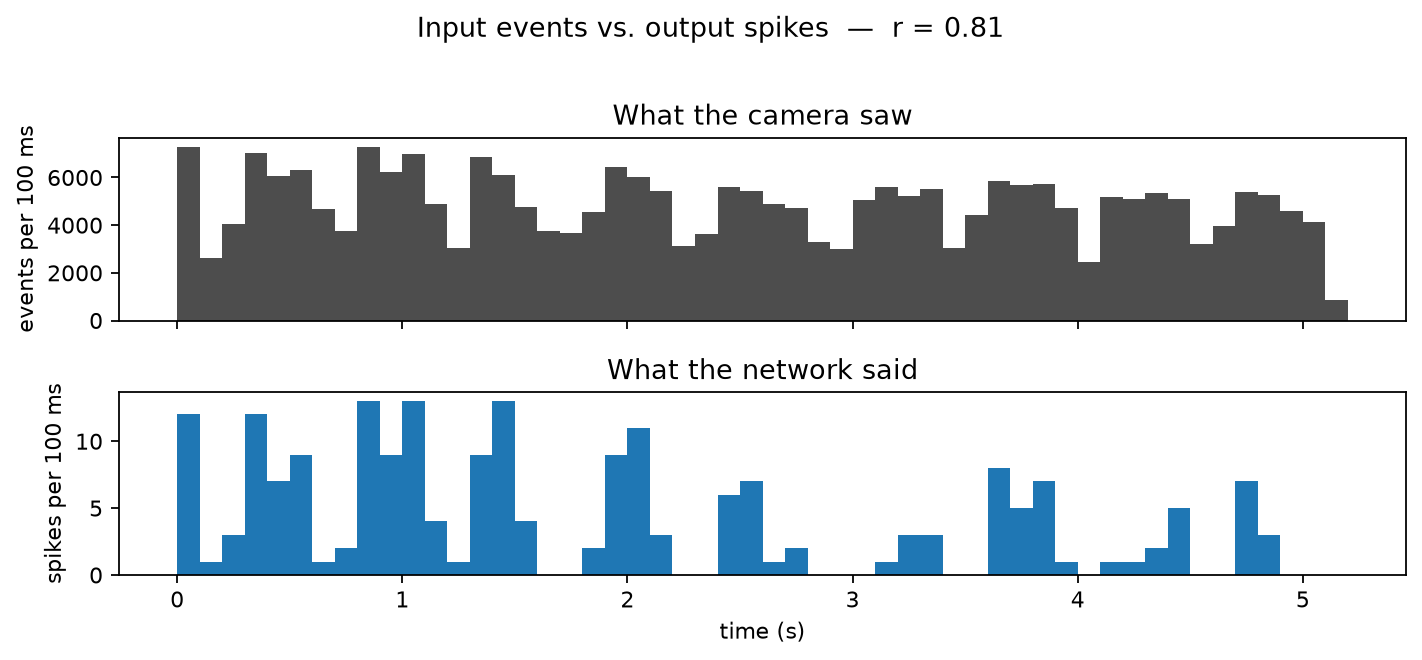
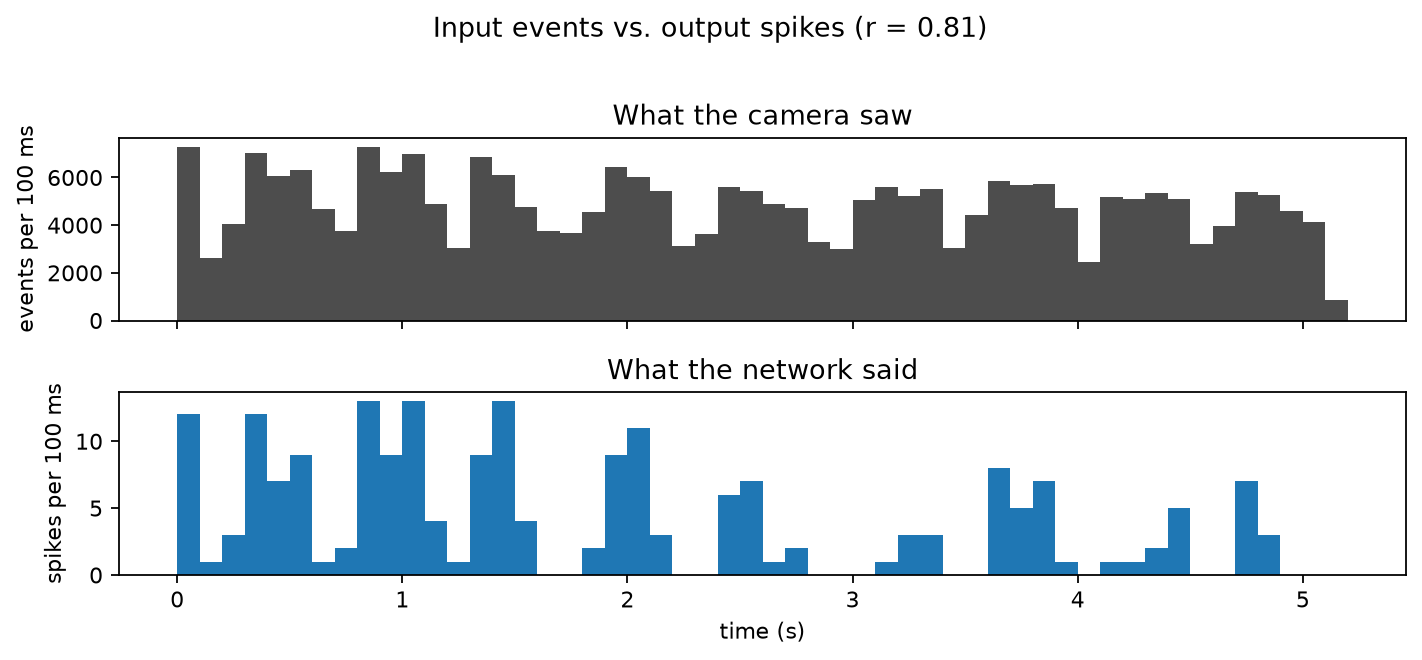
Drop the em dash from the results figure title

Changed region(s): [[0.2785, 0.0303, 0.7117, 0.0606]]

diff --git a/make_figures.py b/make_figures.py
@@ -83,7 +83,7 @@ axes[1].bar(centers, int_hist, width=BIN_S, color="C0", align="center")
 axes[1].set_ylabel("spikes per 100 ms")
 axes[1].set_xlabel("time (s)")
 axes[1].set_title("What the network said")
-fig.suptitle(f"Input events vs. output spikes  —  r = {r:.2f}", y=1.02)
+fig.suptitle(f"Input events vs. output spikes (r = {r:.2f})", y=1.02)
 plt.tight_layout()
 for ext in ("png", "pdf"):
     plt.savefig(f"sensor_vs_integrator.{ext}", dpi=160, bbox_inches="tight")
